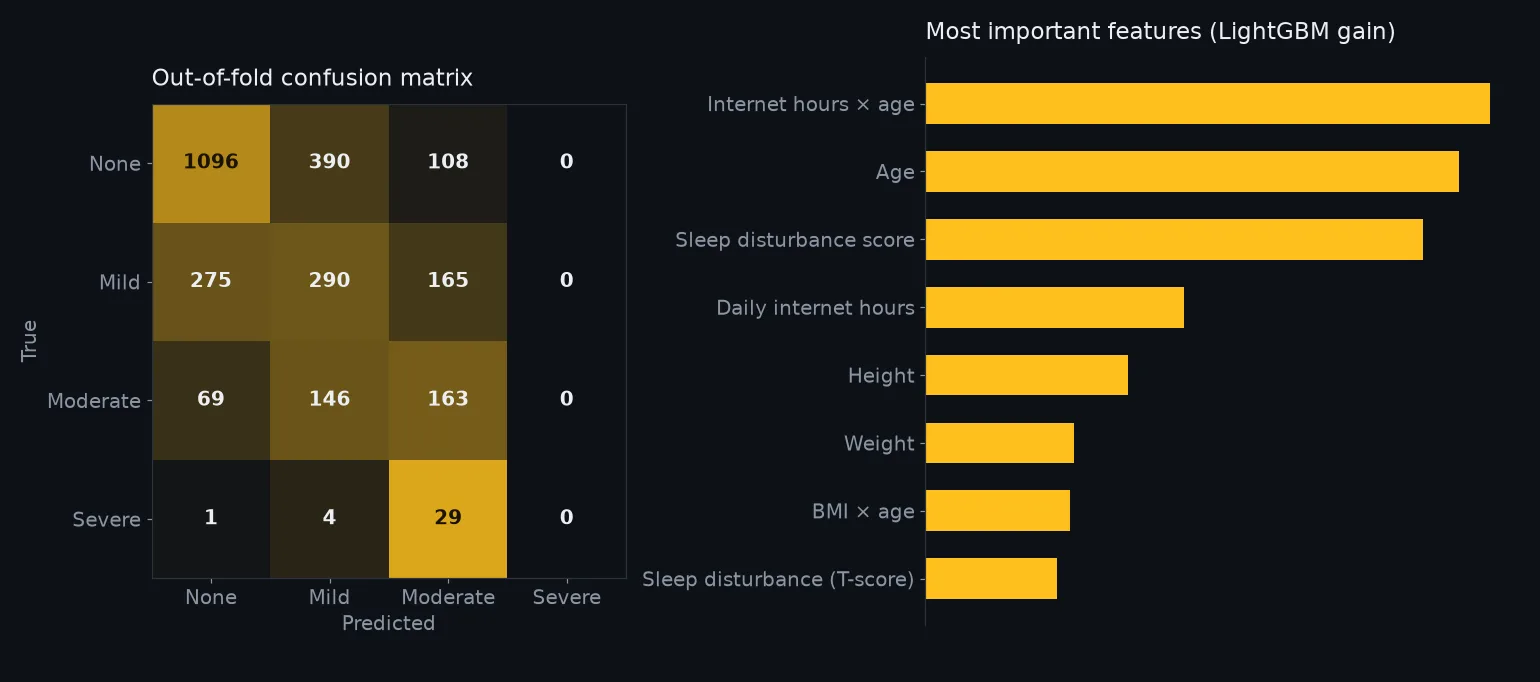
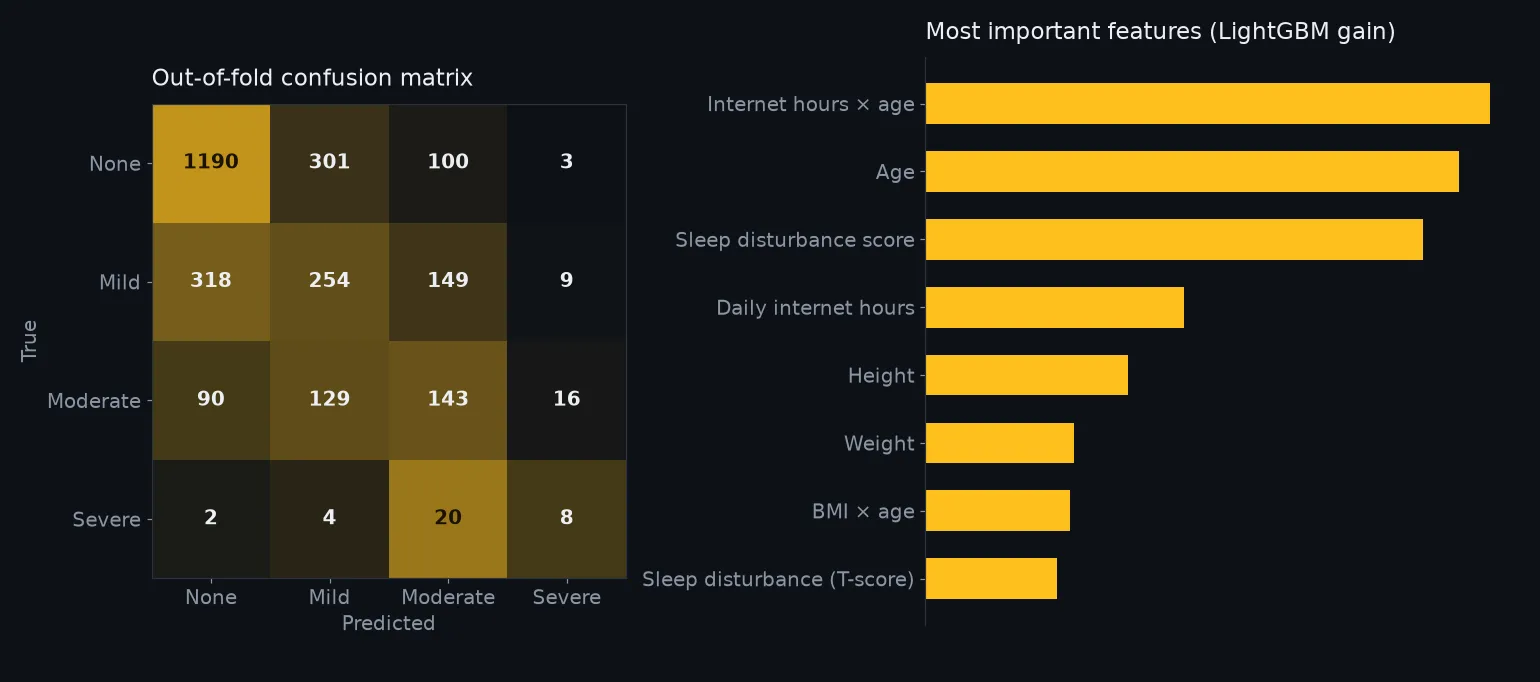
CMI v2 results

diff --git a/data/content.js b/data/content.js
@@ -104,10 +104,10 @@ const projectList = [
     fit: "contain",
     imageAlt: "Confusion matrix of predicted versus true severity, next to a bar chart of the most important features: internet hours by age, age and sleep disturbance score.",
     summary:
-      "Kaggle Child Mind Institute competition. Predicts a child's severity index from physical, fitness, sleep and screen-time data, so screening doesn't depend on a long clinical questionnaire. A LightGBM, XGBoost and CatBoost ensemble with cut-offs tuned for quadratic weighted kappa.",
+      "Kaggle Child Mind Institute competition. Predicts a child's severity index from physical, fitness, sleep and screen-time data, so screening doesn't depend on a long clinical questionnaire. Two LightGBM, XGBoost and CatBoost ensembles, one on the severity index and one on the 0–80 questionnaire total, blended with cut-offs tuned for quadratic weighted kappa.",
     role: "Solo project. Wrist-sensor summaries were tested and did not improve validation, so the simpler model was kept.",
     metrics: [
-      { value: 0.452, decimals: 3, label: "QWK, nested CV" },
+      { value: 0.46, decimals: 2, label: "QWK, nested CV" },
       { value: 2736, decimals: 0, label: "Children" },
       { value: 3, decimals: 0, label: "Boosting models" },
     ],
